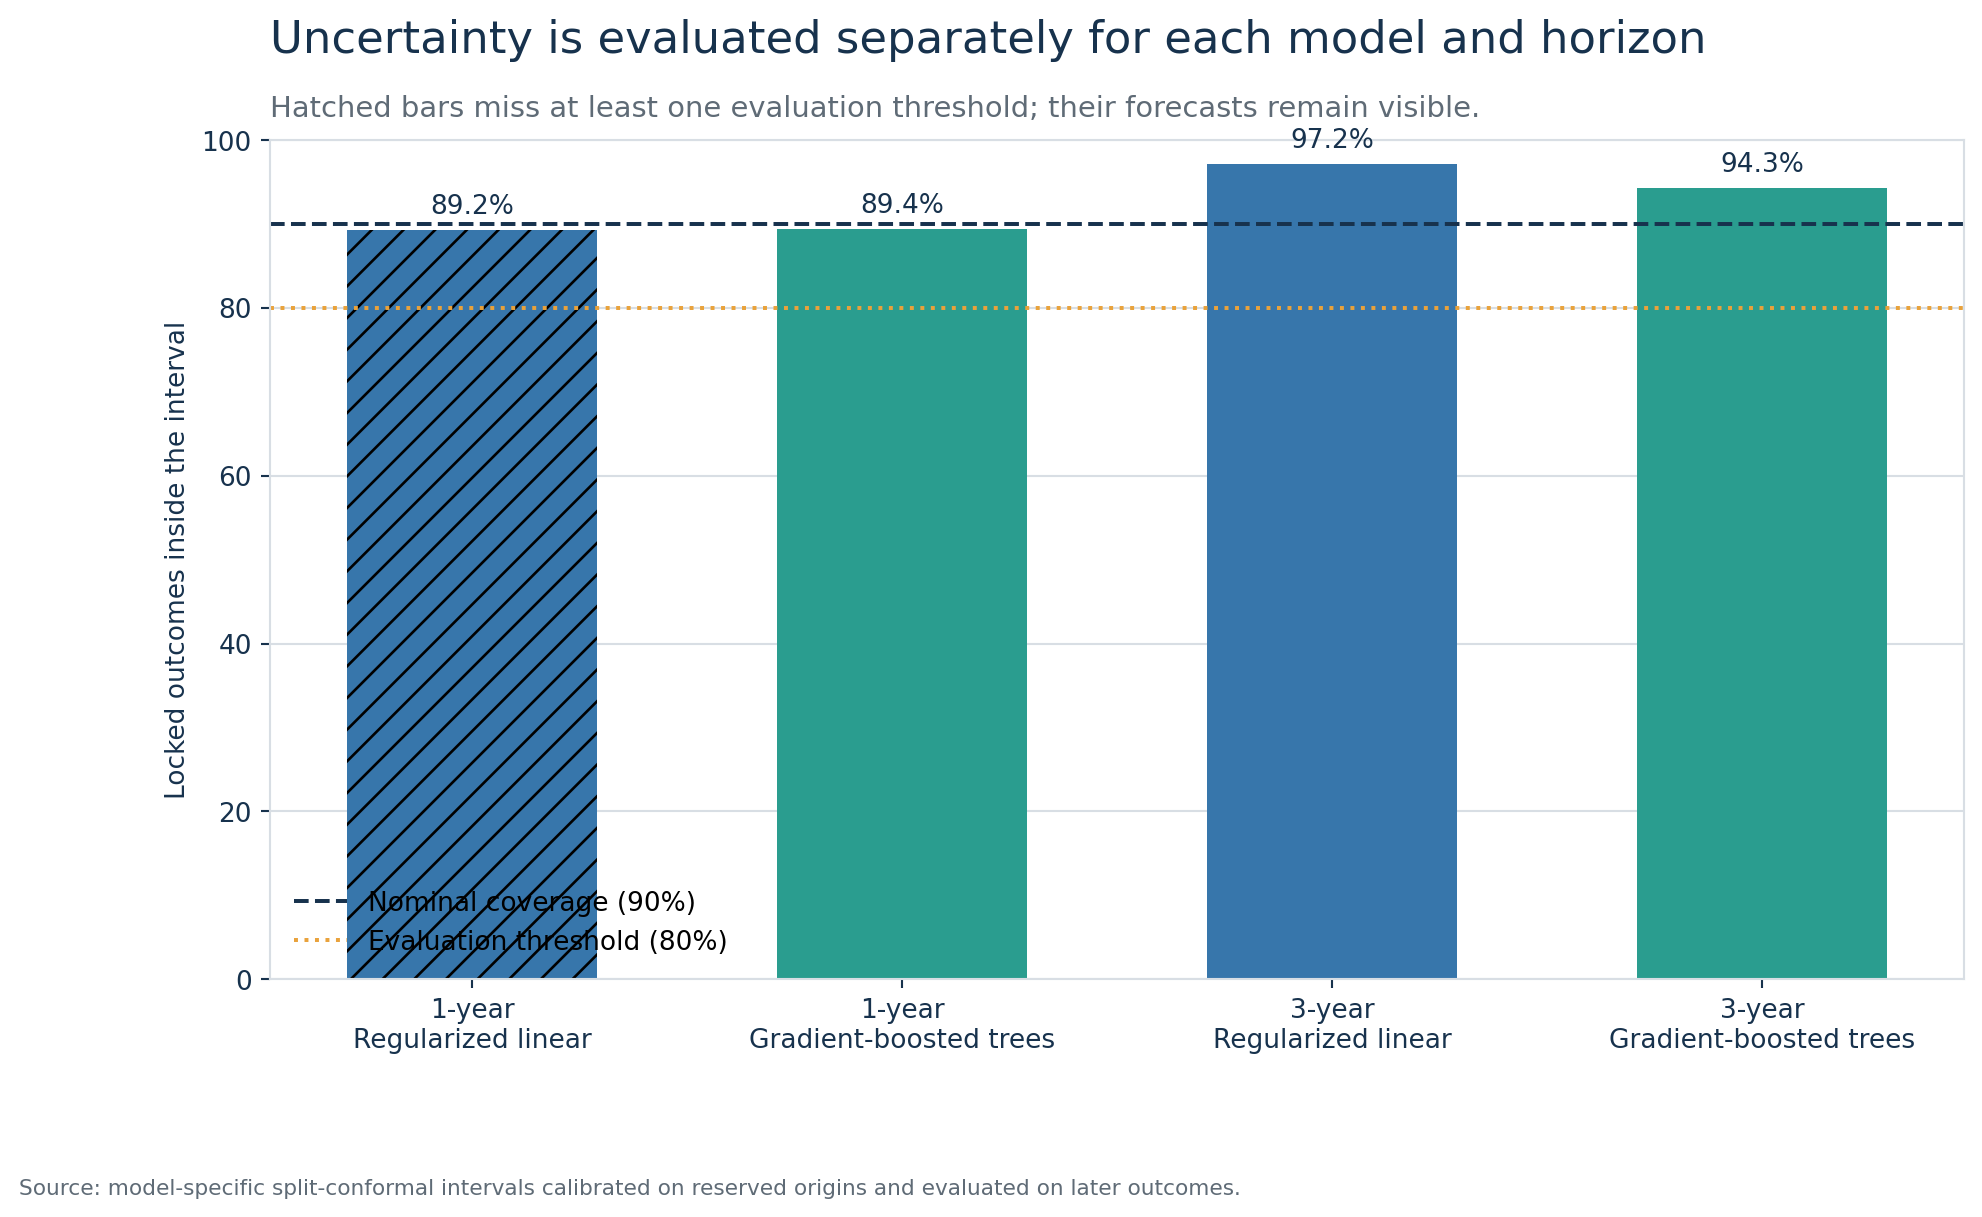
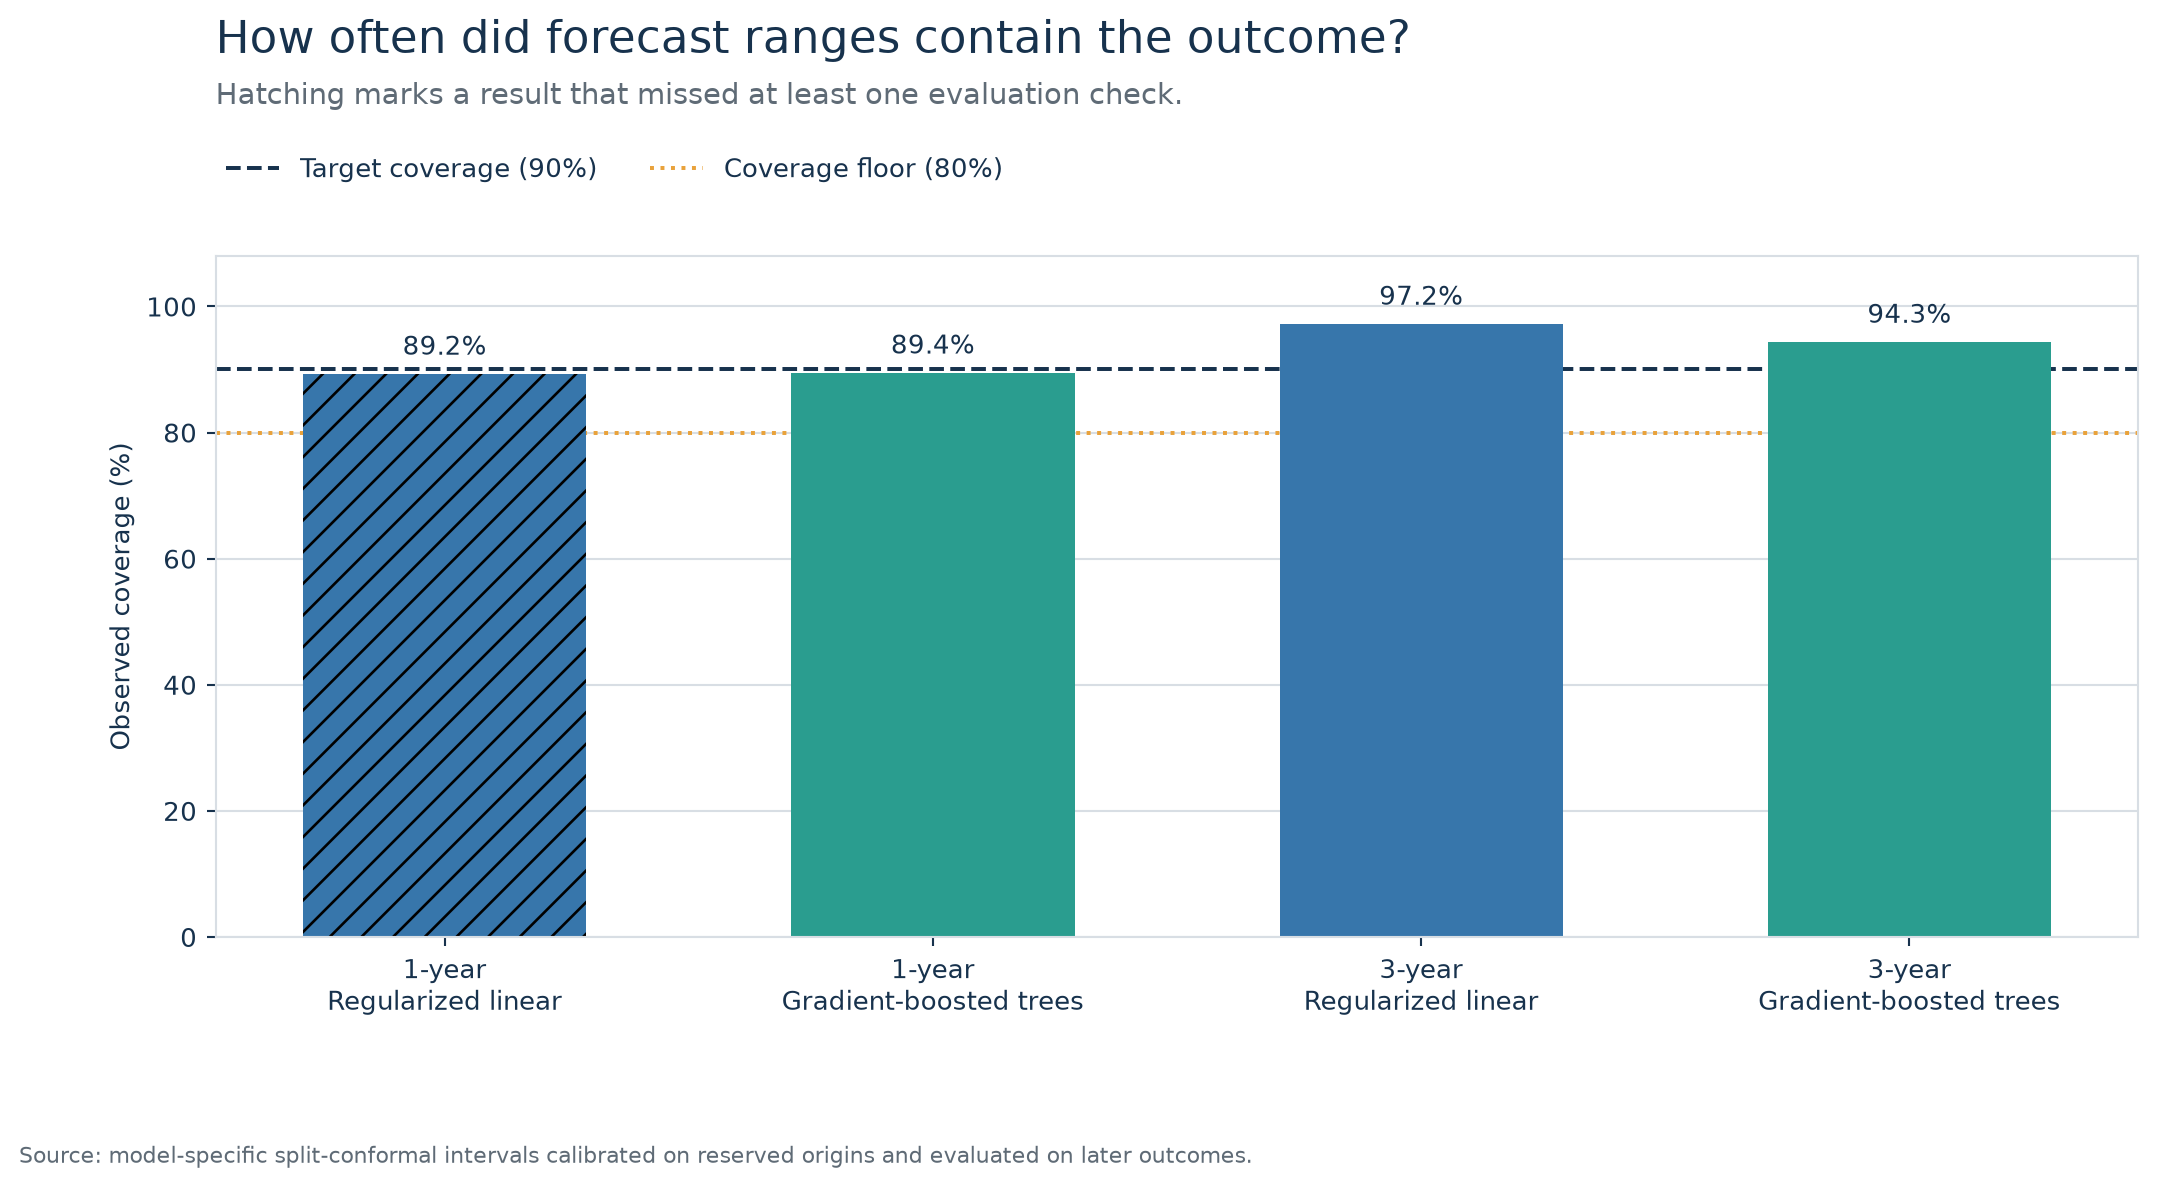
Fixed the forecast coverage legend and explained the starting year

diff --git a/notebooks/05_modeling/12_render_forecast_final_evaluation.py b/notebooks/05_modeling/12_render_forecast_final_evaluation.py
@@ -240,35 +240,43 @@ eligible = [bool(gate_by_key[key]["meets_evaluation_thresholds"]) for key in cov
 labels = [f"{horizon}-year\n{model_labels[model_name]}" for model_name, horizon in coverage_keys]
 colors = [BLUE if model_name == "regularized_linear" else TEAL for model_name, _ in coverage_keys]
 figure, axis = plt.subplots(figsize=(11.5, 6.4))
-bars = axis.bar(np.arange(len(coverage)), coverage, width=0.58, color=colors)
+bars = axis.bar(np.arange(len(coverage)), coverage, width=0.58, color=colors, zorder=2)
 for bar, passed in zip(bars, eligible, strict=True):
     if not passed:
         bar.set_hatch("//")
-axis.bar_label(bars, labels=[f"{value:.1f}%" for value in coverage], padding=4, color=NAVY)
-axis.axhline(90, color=NAVY, linewidth=1.5, linestyle="--", label="Nominal coverage (90%)")
-axis.axhline(80, color=AMBER, linewidth=1.5, linestyle=":", label="Evaluation threshold (80%)")
+axis.bar_label(bars, labels=[f"{value:.1f}%" for value in coverage], padding=5, color=NAVY)
+axis.axhline(90, color=NAVY, linewidth=1.5, linestyle="--", label="Target coverage (90%)", zorder=1)
+axis.axhline(80, color=AMBER, linewidth=1.5, linestyle=":", label="Coverage floor (80%)", zorder=1)
 axis.set_xticks(np.arange(len(labels)), labels)
-axis.set_ylim(0, 100)
-axis.set_ylabel("Locked outcomes inside the interval")
+axis.set_ylim(0, 108)
+axis.set_yticks(np.arange(0, 101, 20))
+axis.set_ylabel("Observed coverage (%)")
 figure.suptitle(
-    "Uncertainty is evaluated separately for each model and horizon",
-    x=0.125,
-    y=0.98,
+    "How often did forecast ranges contain the outcome?",
+    x=0.10,
+    y=0.955,
     ha="left",
     fontsize=17,
     color=NAVY,
 )
-axis.set_title(
-    "Hatched bars miss at least one evaluation threshold; their forecasts remain visible.",
-    loc="left",
-    pad=9,
+figure.text(
+    0.10,
+    0.885,
+    "Hatching marks a result that missed at least one evaluation check.",
     fontsize=11,
     color=MUTED,
 )
 axis.grid(axis="y", color=GRID, linewidth=0.8)
 axis.set_axisbelow(True)
-axis.legend(frameon=False, loc="lower left")
-figure.subplots_adjust(bottom=0.19, top=0.88)
+figure.legend(
+    loc="upper left",
+    bbox_to_anchor=(0.10, 0.85),
+    ncols=2,
+    frameon=False,
+    borderaxespad=0,
+    labelcolor=NAVY,
+)
+figure.subplots_adjust(left=0.10, right=0.98, bottom=0.20, top=0.76)
 save_figure(
     2,
     "locked_interval_coverage",

diff --git a/app/neighborhood_app/ui.py b/app/neighborhood_app/ui.py
@@ -79,14 +79,28 @@ def availability_details(
                     else "Historical matching needs that starting value to compare recent price "
                     "trends with those of earlier neighborhoods."
                 )
-                if usable.empty:
+                latest_year = None if usable.empty else int(usable.max())
+                if latest_year is None:
                     latest = "The tract has no usable FHFA index observations."
                 else:
-                    latest = f"The latest usable observation is from {int(usable.max())}."
+                    latest = f"The latest usable observation is from {latest_year}."
                 details.append(
                     f"The {origin_year} FHFA single-family home price index is missing for this "
                     f"tract. {latest} {purpose}"
                 )
+                if latest_year is not None and latest_year < origin_year:
+                    if product == "forecast":
+                        details.append(
+                            f"This release uses {origin_year} as a common starting year. "
+                            f"A forecast starting in {latest_year} would cover different "
+                            "target years."
+                        )
+                    else:
+                        details.append(
+                            f"This release compares neighborhoods as they looked in {origin_year}. "
+                            f"Starting in {latest_year} would match an earlier neighborhood "
+                            "profile."
+                        )
 
         if reason == "current_acs_unavailable" or (
             reason == "not_in_model_ready_cohort"

diff --git a/app/streamlit_app.py b/app/streamlit_app.py
@@ -913,9 +913,9 @@ def render_data_science_results() -> None:
         )
         _science_figure(
             "03_forecast_interval_coverage.png",
-            "Observed coverage is checked separately for every model-horizon pair. One-year "
-            "coverage is close to the nominal 90%; wider three-year intervals are conservative. "
-            "A warning does not remove the corresponding forecast.",
+            "The bars show the share of later outcomes within each model's forecast range. "
+            "All four results clear the 80% coverage floor. The hatched one-year linear result "
+            "missed a separate check because its error exceeded the zero-change baseline.",
         )
         _science_figure(
             "04_forecast_observed_vs_predicted.png",

diff --git a/tests/unit/test_app_presentation.py b/tests/unit/test_app_presentation.py
@@ -471,6 +471,8 @@ def test_app_explains_absent_results_with_tract_source_evidence(
     assert "median gross rent" in text
     assert "Both forecast models need that starting value" in text
     assert "Historical matching needs that starting value" in text
+    assert "A forecast starting in 2024 would cover different target years." in text
+    assert "Starting in 2024 would match an earlier neighborhood profile." in text
     assert "model_ready_market_features_unavailable" not in text
 
 

diff --git a/docs/application/neighborhood_explorer.md b/docs/application/neighborhood_explorer.md
@@ -97,6 +97,12 @@ availability record, the release's starting year, and the tract's source data.
   for price change. Historical matching uses it to compare recent price trends with earlier
   neighborhoods. When the starting value is missing, the app names the year and gives the latest
   usable observation or says that the tract has no usable FHFA history.
+- **Why the app uses a common year.** The current forecast and historical-matching releases
+  use 2025 as the shared starting point. A 2024 forecast would end in 2025 or 2027,
+  compared with 2026 or 2028 for the current release. A 2024 match would describe how the tract
+  looked a year earlier. The Overview still shows 2024 where it was observed. Publishing a
+  2024 result would require a separate run using information available at that time and a
+  clear earlier-results label.
 - **Missing Census estimates or display data.** The app identifies missing Census inputs when
   the records support that explanation. A gap in the current Census profile can coexist with
   published model results because the model uses data available at its starting point. Overview

diff --git a/docs/application/data_science_walkthrough.md b/docs/application/data_science_walkthrough.md
@@ -51,6 +51,11 @@ Source lineage:
 - tracked assets: `02_forecast_validation_vs_locked_mae.png`,
   `03_forecast_interval_coverage.png`, and `04_forecast_observed_vs_predicted.png`.
 
+The interval figure was regenerated for the app from the four governed evaluation rows. The
+legend has its own space above the plot. The 90% line marks the target and the 80% line marks
+the minimum coverage check. Hatching marks any missed evaluation check. The one-year linear
+result is hatched because it trailed zero change on point error.
+
 ### Historical analogues
 
 The similarity section first explains the method, then representation selection and stability,

diff --git a/docs/application/deployment_and_testing.md b/docs/application/deployment_and_testing.md
@@ -283,3 +283,8 @@ Census profiles, FHFA series, display boundaries, and intermediate match observa
 Streamlit rendering against five actual Databricks tract records verified the explanations and
 confirmed that available results still render. The deployment left all 34 bundle resources
 unchanged.
+
+Deployment `01f1ea768a2c1fb0af89699d34729dd5` updates the release-year explanation and the
+forecast interval coverage figure. The figure was regenerated from the four records for
+forecast finalization run `29c68a5af1e74daab6e06ff7aa2aa9e9`. The render check confirmed
+that the legend sits above the plot and the bar labels fit inside the plot area.
